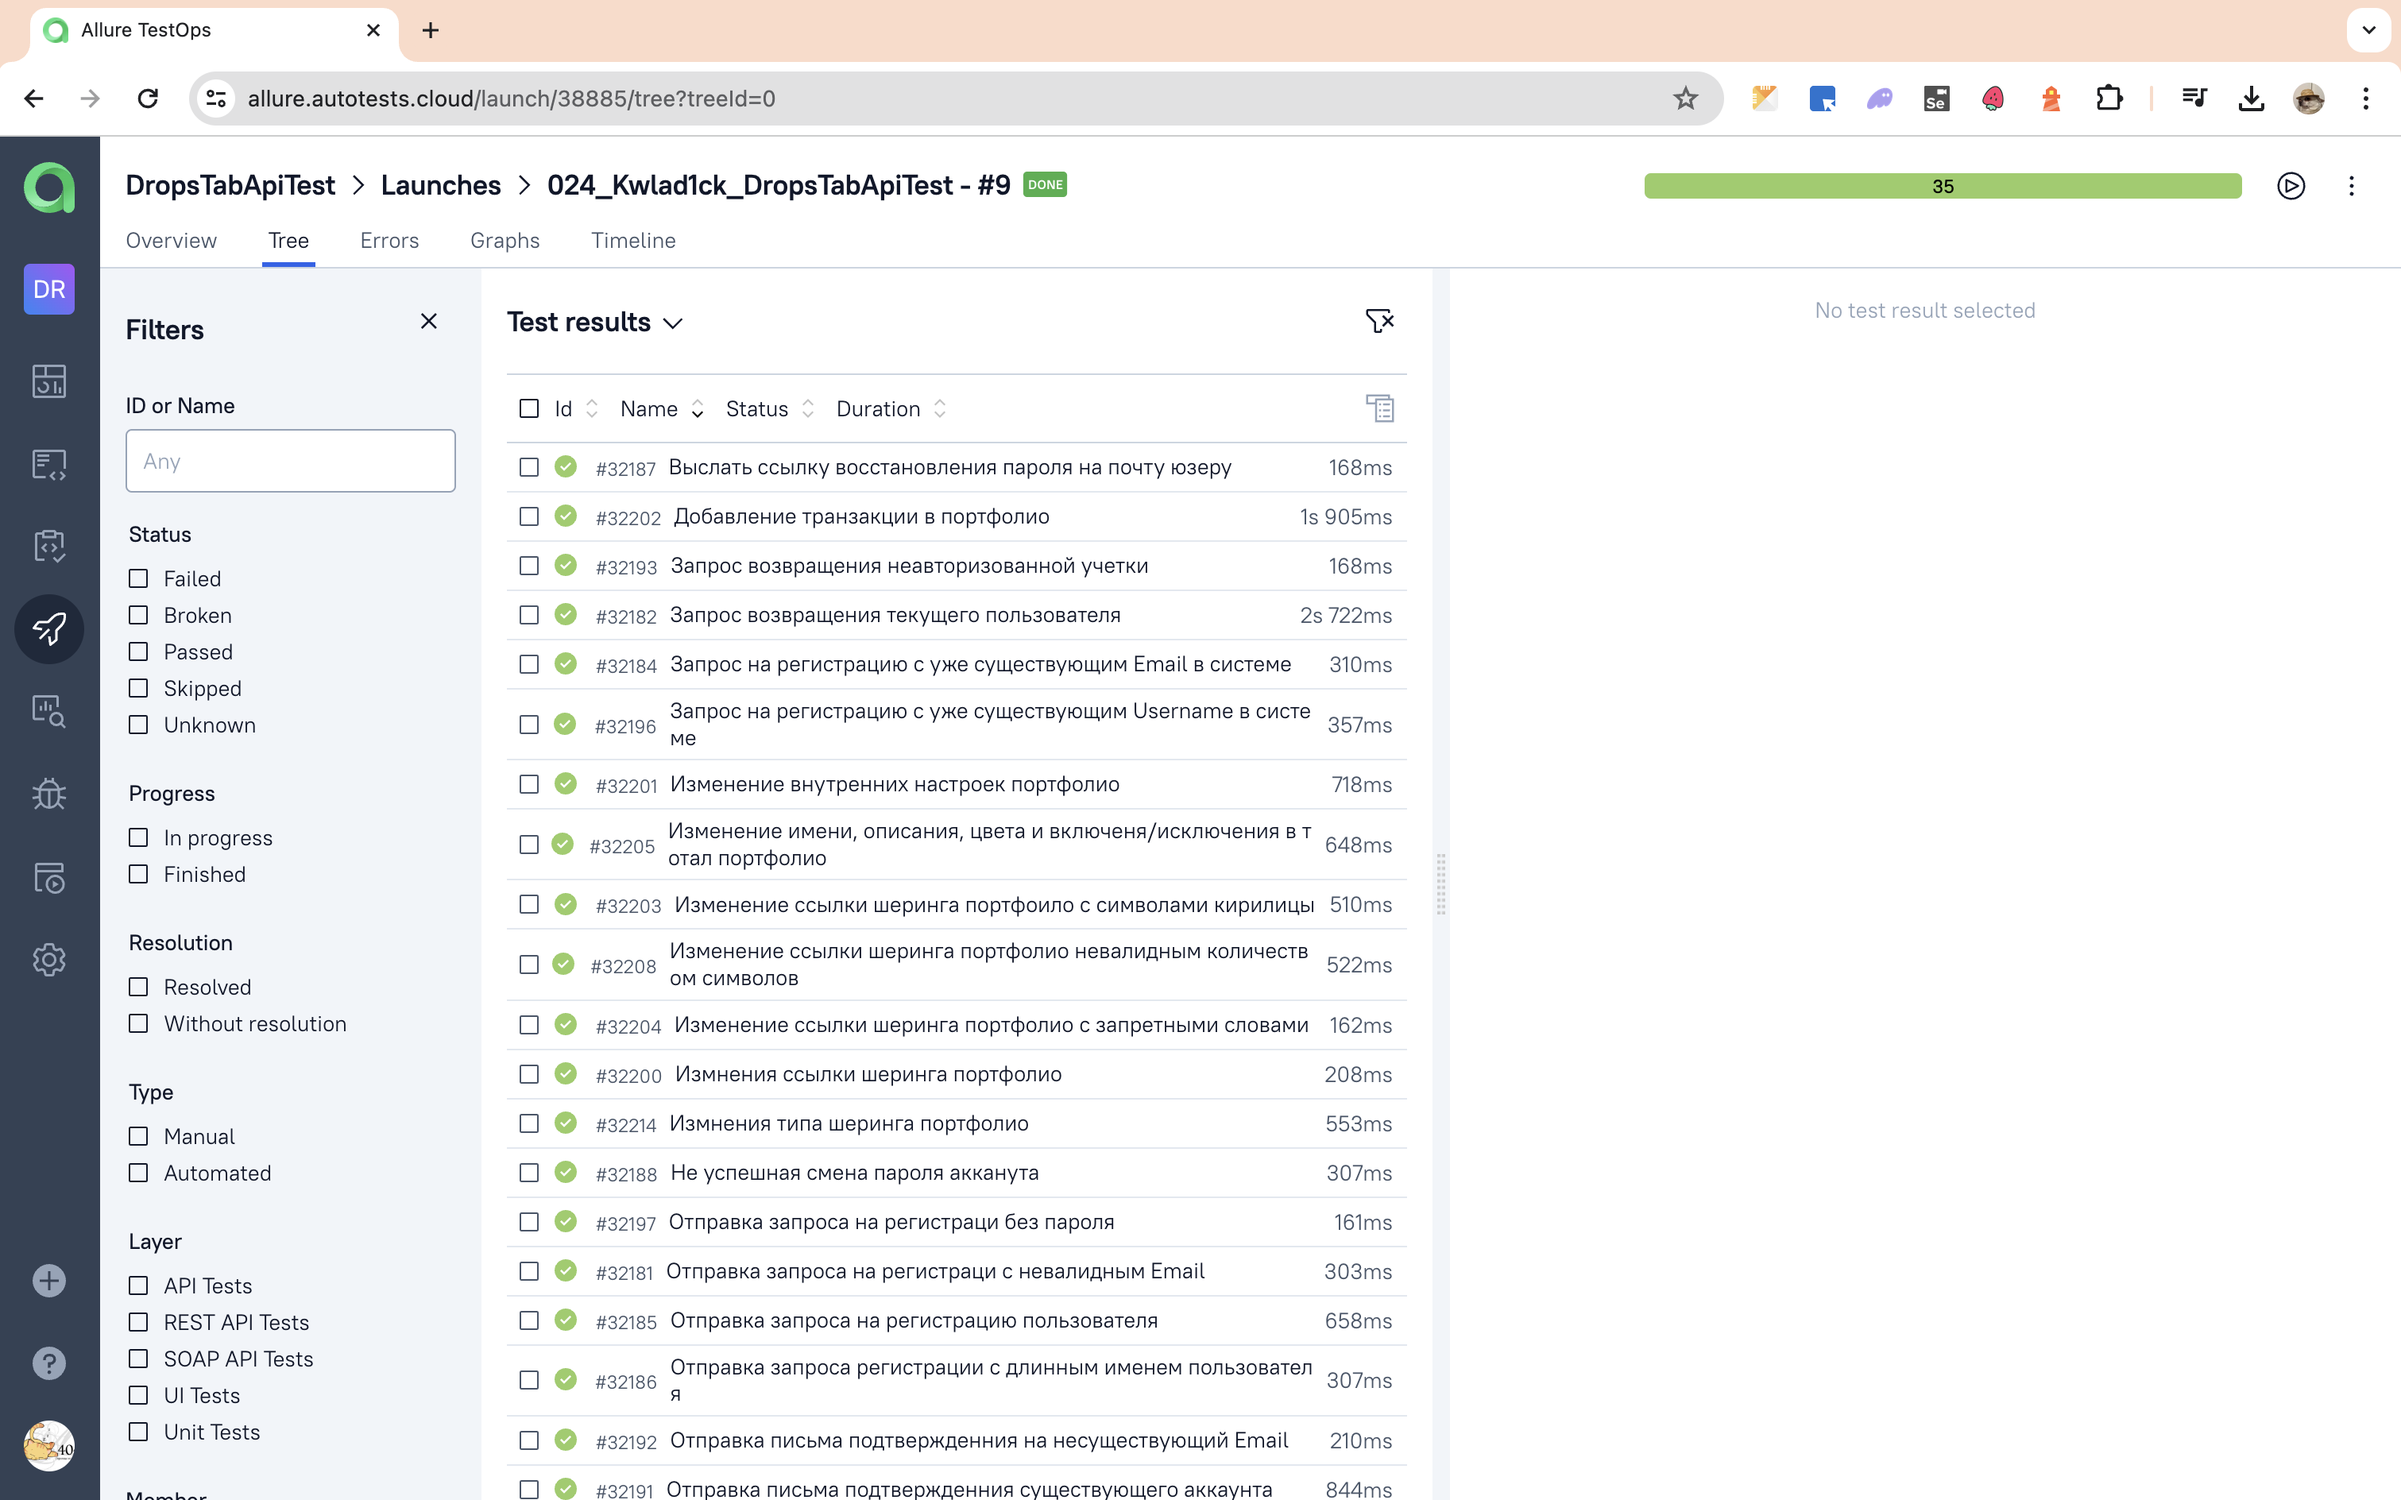
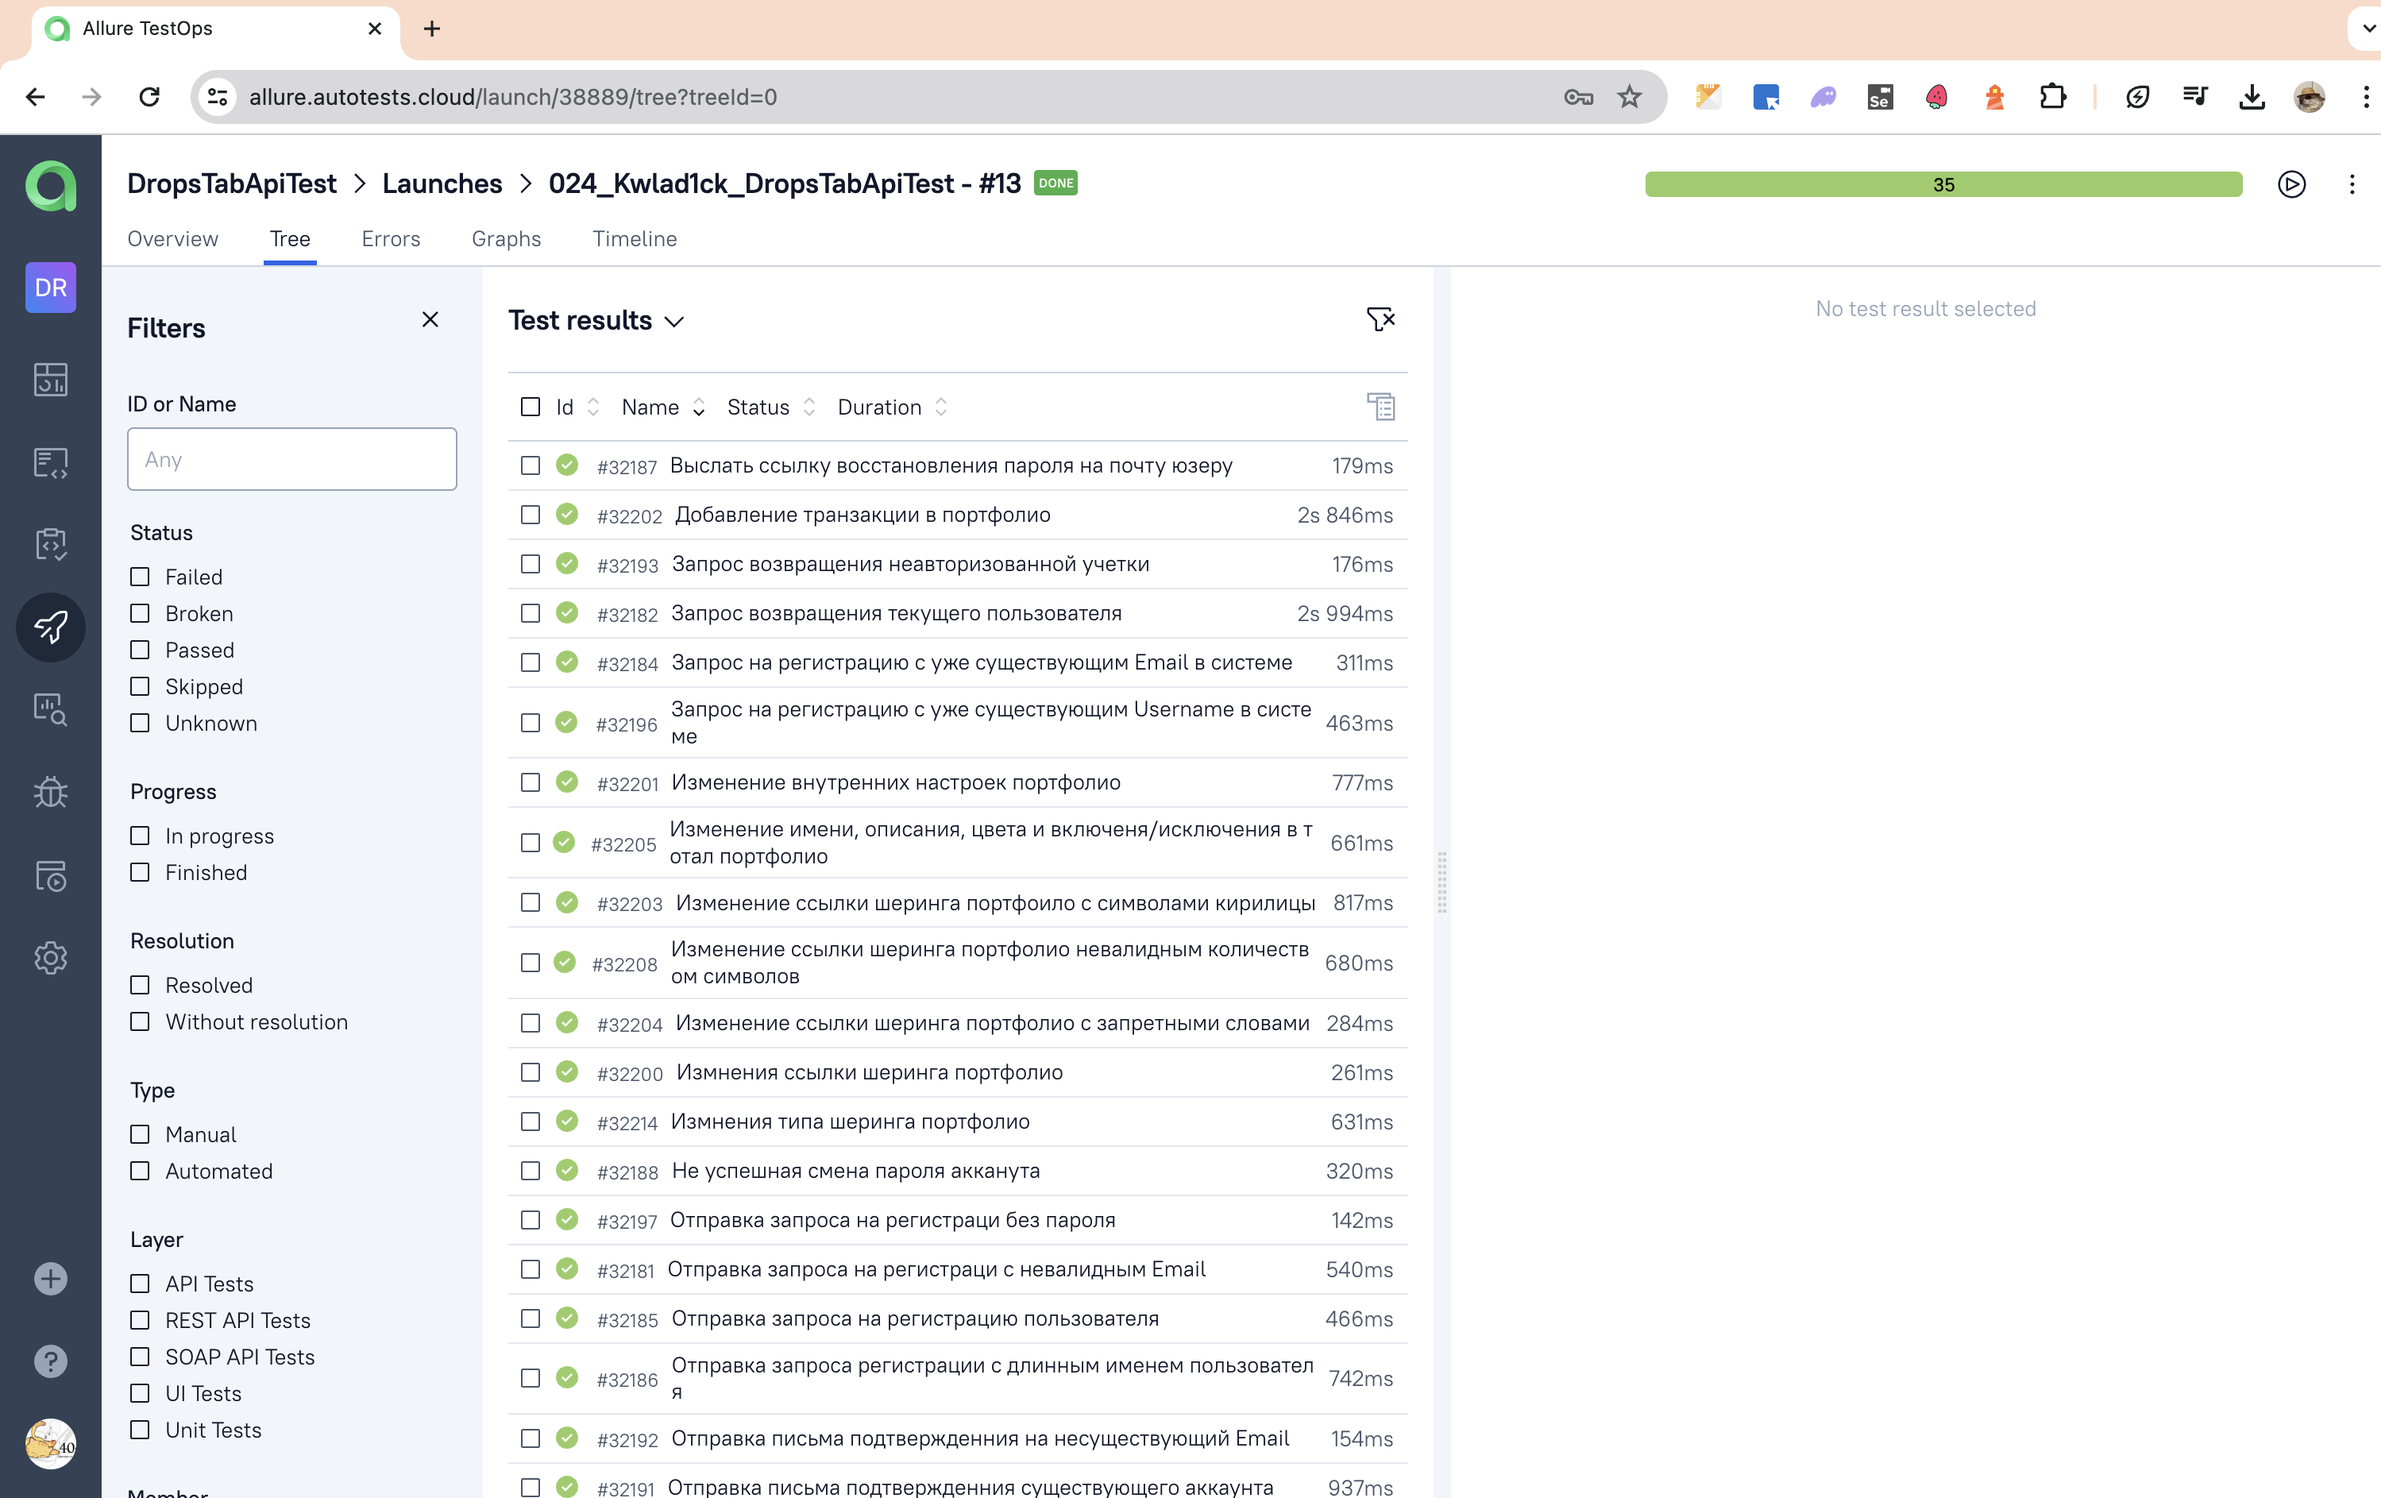
Change ReadMe

diff --git a/README.md b/README.md
@@ -152,7 +152,7 @@ clean ${TASK}
 <img title="Dashboard Allure TestOps" src="media/screenshots/TestOpsDashboard.png">
 </p>
 
-### Результат выполнения сборки #9
+### Результат выполнения сборки #13
 
 <p align="center">
 <img title="Сборка#10 в Allure TestOps" src="media/screenshots/TestOpsResult-9.png">
@@ -165,16 +165,24 @@ clean ${TASK}
 <img title="Общий вид отчёта Allure" src="media/screenshots/AllureOverview.png">
 </p>
 
-### Результат выполнения автотестов
+### [Результат выполнения автотестов](https://jenkins.autotests.cloud/job/024_Kwlad1ck_DropsTabApiTest/13/allure/#suites/7287a1cb19ff6eb0003fcd1801c4d1c7)
+
+#### Авторизация/регистрация
 
 <p align="center">
-<img title="Список тест-кейсов в отчёте Allure" src="media/screenshots/AllureSuites.png">
+<img title="Список тест-кейсов в отчёте Allure" src="media/screenshots/AllureSuitesAuth.png">
 </p>
 
-### Графики
+#### Раздел портфолио
 
 <p align="center">
-<img title="Графики прохождения сборки в отчёте Allure" src="media/screenshots/AllureCharts.png">
+<img title="Список тест-кейсов в отчёте Allure" src="media/screenshots/AllureSuitesPortfolio.png">
+</p>
+
+### :bar_chart: [Графики](https://jenkins.autotests.cloud/job/024_Kwlad1ck_DropsTabApiTest/13/allure/#graph)
+
+<p align="center">
+<img title="Графики прохождения сборки в отчёте Allure" src="media/screenshots/AllureCharts-13.png">
 </p>
 
 ## <img width="4%" style="vertical-align:middle" title="Jira" src="media/logos/Jira.svg"> [Интеграция](https://jira.autotests.cloud/browse/HOMEWORK-1149) с Jira
